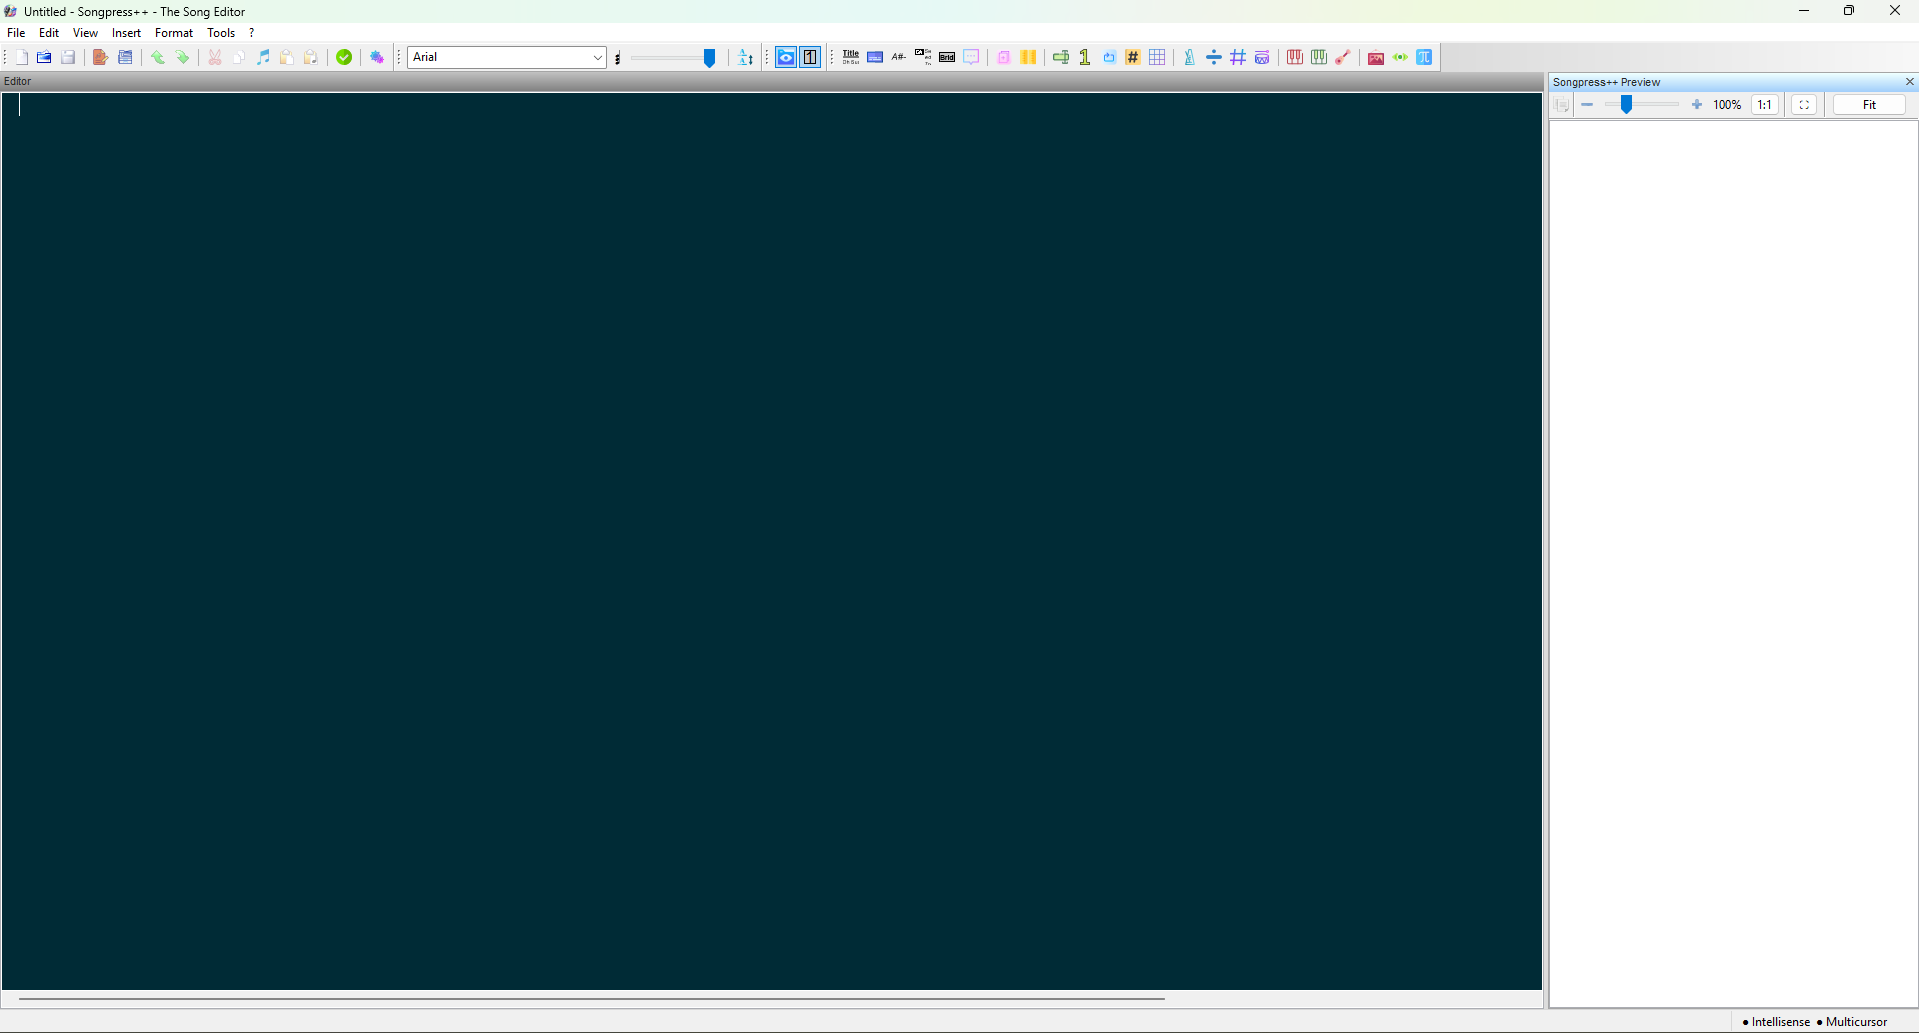
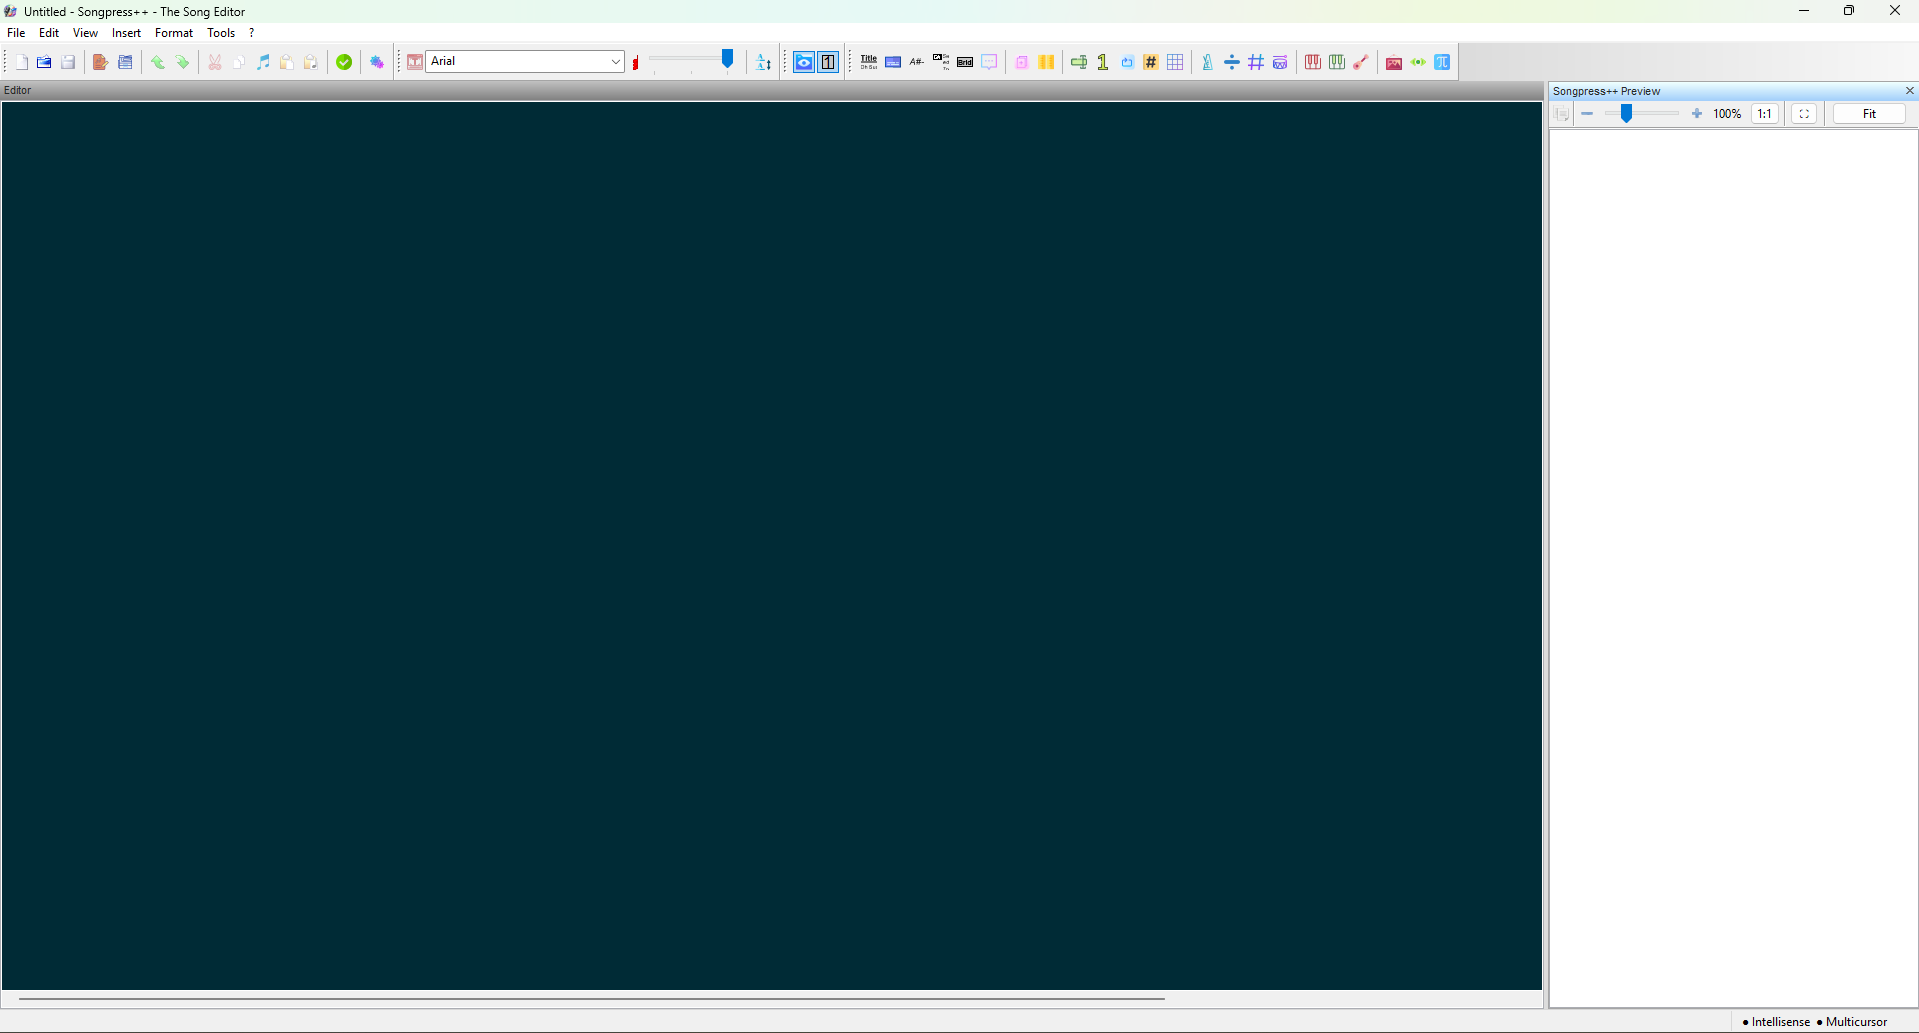
v6.0.0

Changed region(s): [[0.0, 0.031, 1.0, 0.1239]]

diff --git a/src/songpressPlusPlus/i18n.py b/src/songpressPlusPlus/i18n.py
@@ -55,30 +55,28 @@ def setLang(l):
     xrc_localedir = os.path.join(glb.path, "xrc", "locale")
     mylocale.AddCatalogLookupPathPrefix(localedir)
     mylocale.AddCatalogLookupPathPrefix(xrc_localedir)
-    mylocale.AddCatalog('songpress')
-    lc_messages_dir = os.path.join(localedir, l, "LC_MESSAGES")
-    if os.path.isdir(lc_messages_dir):
-        for f in os.listdir(lc_messages_dir):
-            fn, ext = os.path.splitext(f)
-            if ext.lower() == '.mo' and fn != 'songpress':
-                mylocale.AddCatalog(fn)
-    for f in os.listdir(glb.path):
-        fn, ext = os.path.splitext(f)
-        if ext.lower() == '.pot':
-            mylocale.AddCatalog(fn)
-    # Override _ with gettext so all modules get actual translations.
-    # Scansiona automaticamente tutti i .mo in LC_MESSAGES e li concatena.
-    import builtins
+
+    # Raccoglie tutti i nomi di catalogo da LC_MESSAGES (tutti i .mo presenti),
+    # garantendo che 'songpress' sia sempre il primo (catalogo principale).
     lc_messages_dir = os.path.join(localedir, l, "LC_MESSAGES")
     catalog_names = []
     if os.path.isdir(lc_messages_dir):
-        for f in os.listdir(lc_messages_dir):
+        for f in sorted(os.listdir(lc_messages_dir)):
             fn, ext = os.path.splitext(f)
-            if ext.lower() == '.mo':
+            if ext.lower() == '.mo' and fn not in catalog_names:
                 catalog_names.append(fn)
-    for name in ('songpress', 'SongpressFrame'):
-        if name not in catalog_names:
-            catalog_names.append(name)
+    # Assicura che 'songpress' sia sempre in testa
+    if 'songpress' in catalog_names:
+        catalog_names.remove('songpress')
+    catalog_names.insert(0, 'songpress')
+
+    # Carica ogni catalogo in wx.Locale (usato da wx.GetTranslation / _ = wx.GetTranslation)
+    for name in catalog_names:
+        mylocale.AddCatalog(name)
+
+    # Costruisce anche una catena gettext (usata da builtins._ nei moduli
+    # che importano _ da gettext anziché da wx)
+    import builtins
     combined = None
     for name in catalog_names:
         try:

diff --git a/src/songpressPlusPlus/SongpressToolbars.py b/src/songpressPlusPlus/SongpressToolbars.py
@@ -128,7 +128,14 @@ class SongpressToolbarsMixin:
         self.formatToolBar.SetExtraStyle(aui.AUI_TB_PLAIN_BACKGROUND)
 
         # Font chooser
+        fontIcon = wx.StaticBitmap(
+            self.formatToolBar, -1,
+            wx.Bitmap(wx.Image(glb.AddPath('img/font1.png')))
+        )
+        fontIcon.SetToolTip(_("Font used in the Songpress++ preview"))
+        self.formatToolBar.AddControl(fontIcon)
         self.fontChooser = FontComboBox(self.formatToolBar, -1, self.pref.format.face)
+        self.fontChooser.SetToolTip(_("Font used in the Songpress++ preview"))
         self.formatToolBar.AddControl(self.fontChooser)
         self.frame.Bind(wx.EVT_COMBOBOX,    self.OnFontSelected, self.fontChooser)
         self.fontChooser.Bind(wx.EVT_TEXT_ENTER, self.OnFontSelected, self.fontChooser)